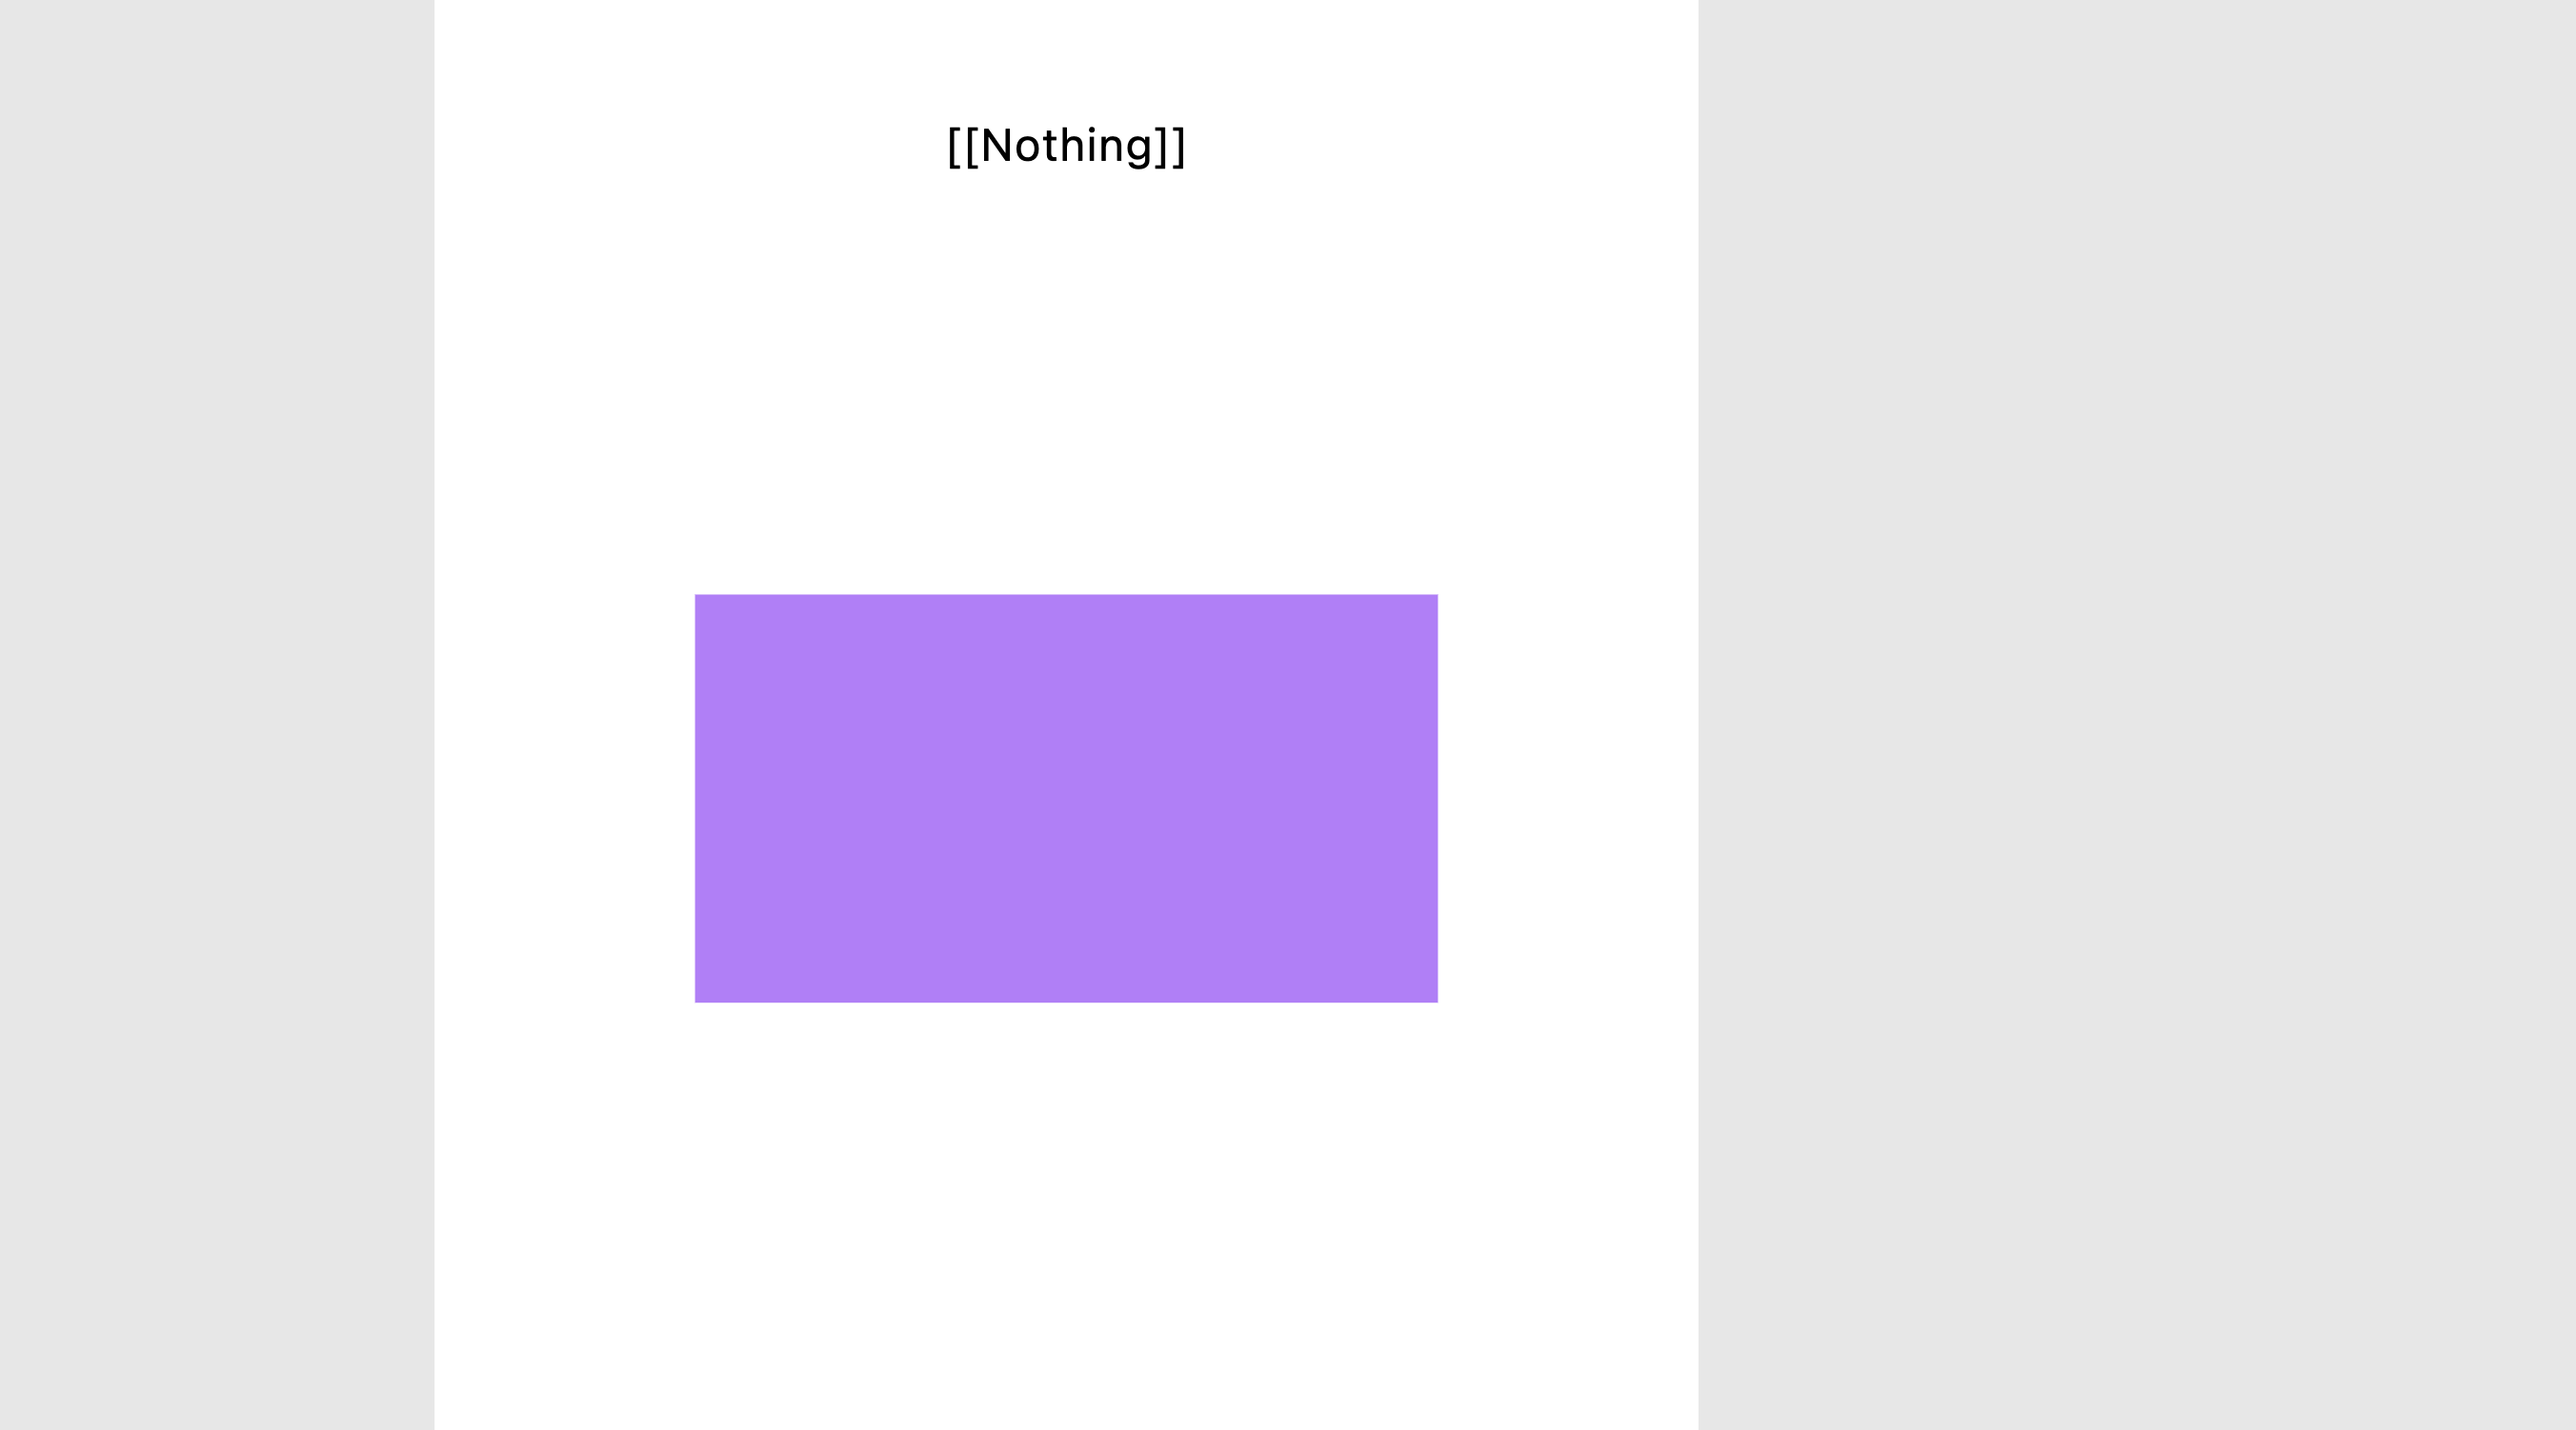
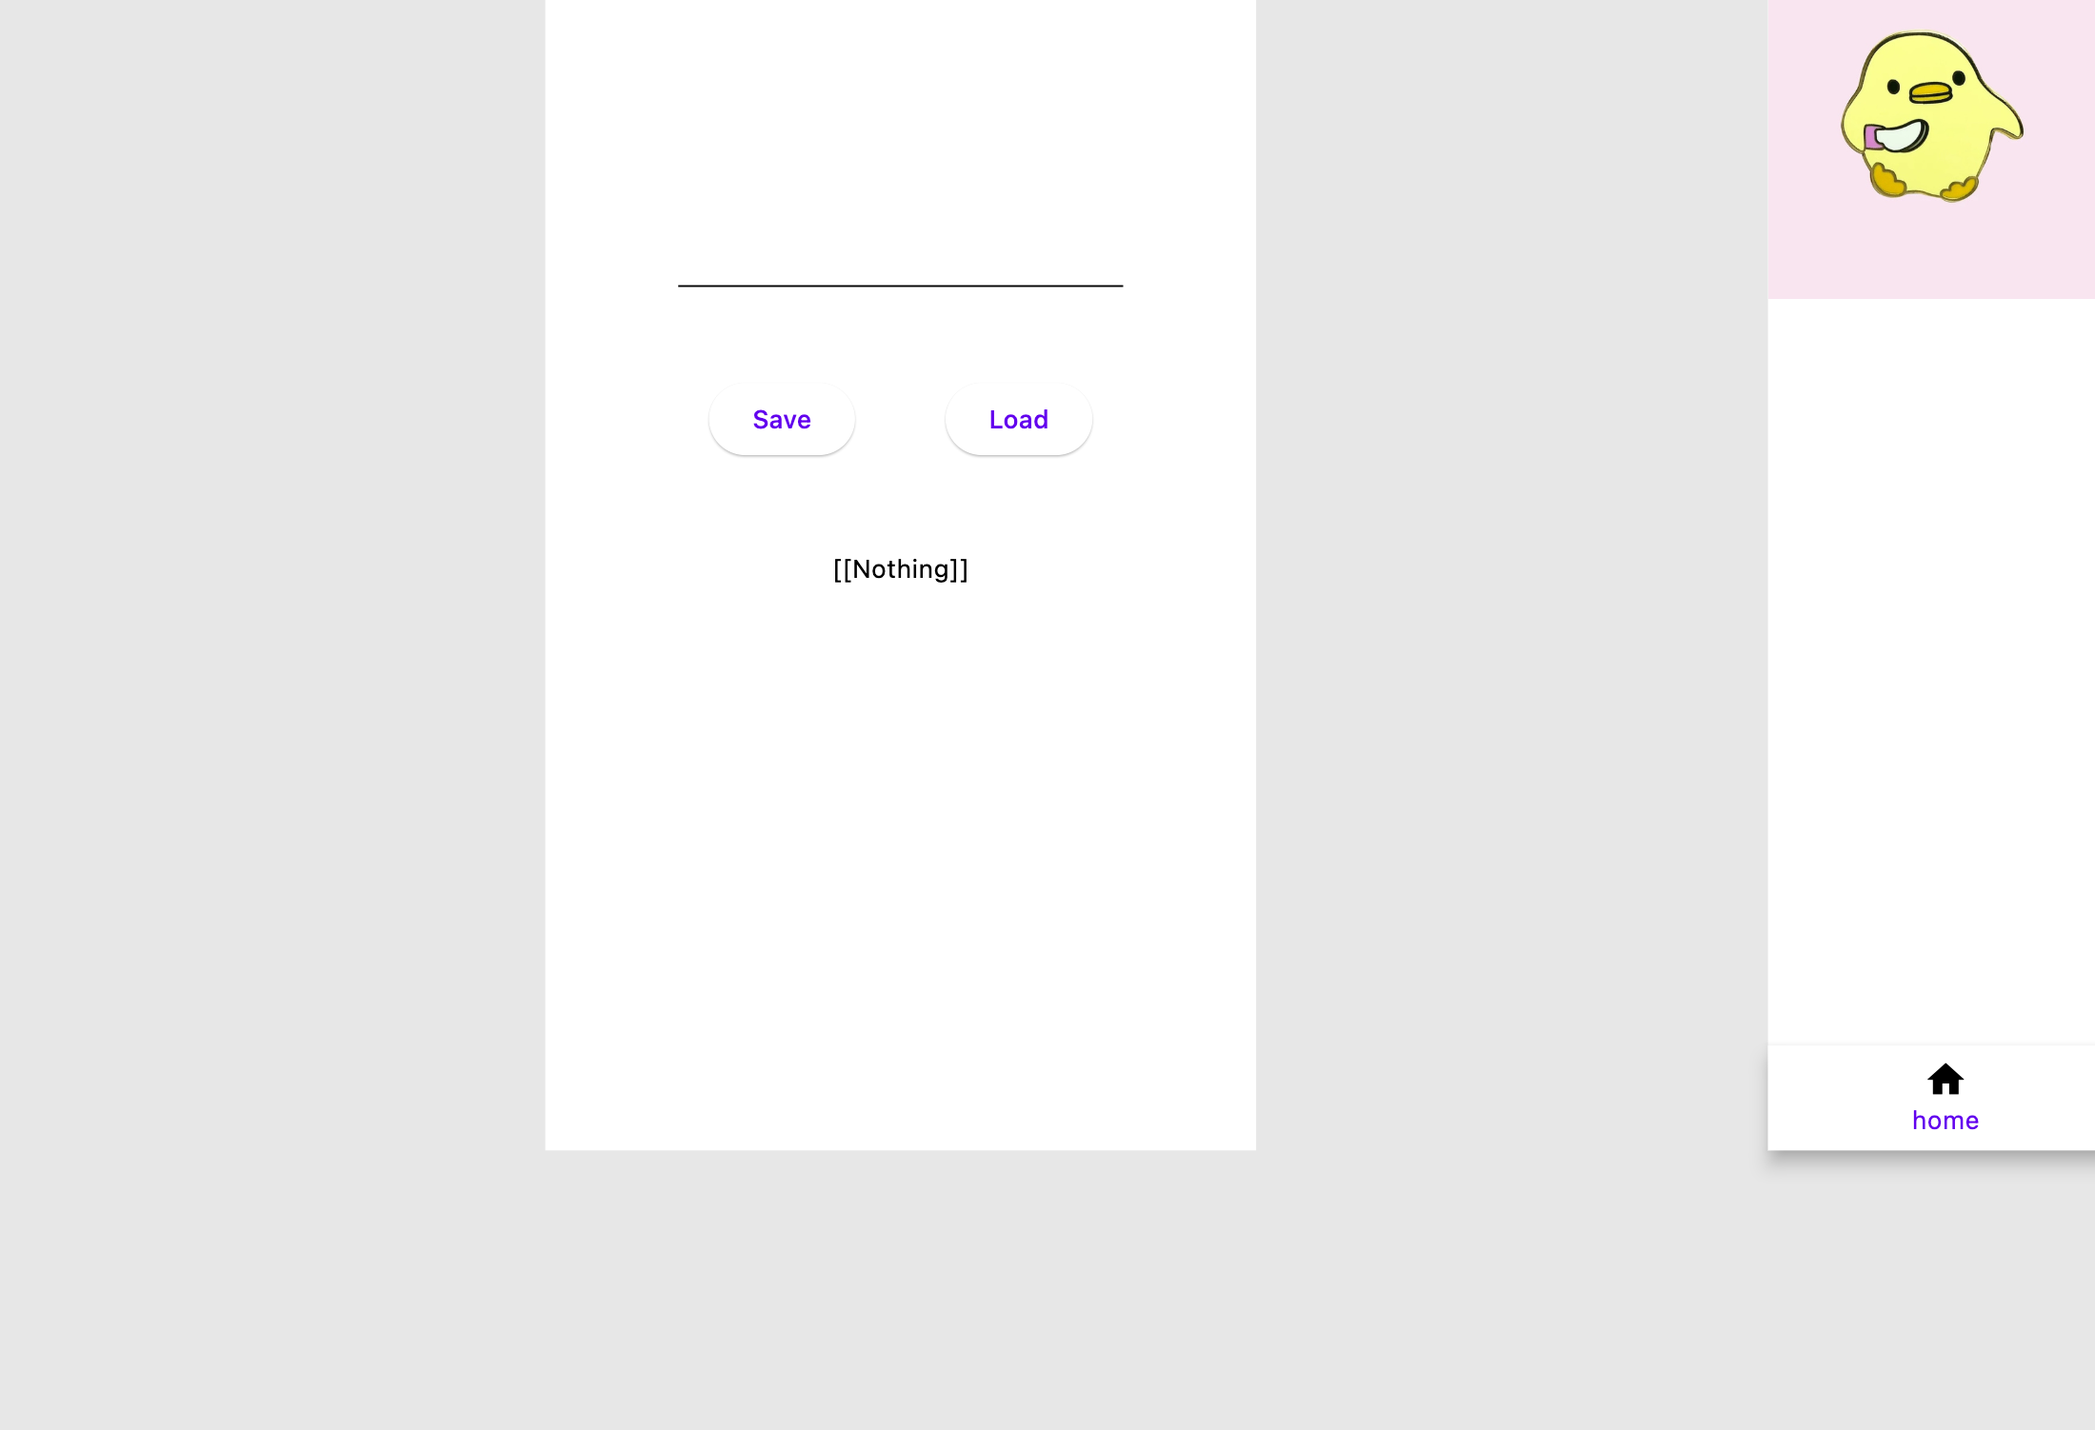
adding navigation

diff --git a/lib/counter.dart b/lib/counter.dart
@@ -1,0 +1,69 @@
+import 'package:flutter/material.dart';
+import 'package:nowa_runtime/nowa_runtime.dart';
+
+@NowaGenerated()
+class Counter extends StatefulWidget {
+  @NowaGenerated({'loader': 'auto-constructor'})
+  const Counter({super.key});
+
+  @override
+  State<Counter> createState() {
+    return _CounterState();
+  }
+}
+
+@NowaGenerated()
+class _CounterState extends State<Counter> {
+  int? counter = 0;
+
+  @override
+  Widget build(BuildContext context) {
+    return Scaffold(
+      body: SafeArea(
+        child: Stack(
+          fit: StackFit.expand,
+          alignment: const Alignment(0.0, 0.0),
+          children: [
+            Positioned(
+              top: 0.0,
+              left: 0.0,
+              right: 0.0,
+              bottom: 0.0,
+              child: NFlex(
+                direction: Axis.vertical,
+                spacing: 8.0,
+                mainAxisSize: MainAxisSize.min,
+                mainAxisAlignment: MainAxisAlignment.center,
+                crossAxisAlignment: CrossAxisAlignment.center,
+                children: [
+                  FlexSizedBox(
+                    width: null,
+                    height: null,
+                    child: Text(
+                      counter!.toString(),
+                      style: const TextStyle(fontSize: 40.0),
+                    ),
+                  ),
+                  FlexSizedBox(
+                    child: Text(
+                      counter! > 10 ? 'Big' : 'Small',
+                    ),
+                  )
+                ],
+              ),
+            )
+          ],
+        ),
+      ),
+      floatingActionButton: FloatingActionButton(
+        onPressed: () {
+          counter = counter! + 1;
+          setState(() {});
+        },
+        child: const Icon(
+          IconData(57415, fontFamily: 'MaterialIcons'),
+        ),
+      ),
+    );
+  }
+}

diff --git a/lib/navigation_sample.dart b/lib/navigation_sample.dart
@@ -1,0 +1,70 @@
+import 'package:flutter/material.dart';
+import 'package:nowa_runtime/nowa_runtime.dart';
+import 'package:nowa_sample/nav_page1.dart';
+import 'package:nowa_sample/nav_page2.dart';
+
+@NowaGenerated()
+class NavigationSample extends StatefulWidget {
+  @NowaGenerated({'loader': 'auto-constructor'})
+  const NavigationSample({super.key});
+
+  @override
+  State<NavigationSample> createState() {
+    return _NavigationSampleState();
+  }
+}
+
+@NowaGenerated()
+class _NavigationSampleState extends State<NavigationSample> {
+  int pageIndex = 0;
+
+  @override
+  Widget build(BuildContext context) {
+    return Scaffold(
+      body: SafeArea(
+        child: Stack(
+          fit: StackFit.expand,
+          alignment: const Alignment(0.0, 0.0),
+          children: [
+            Positioned(
+              top: 0.0,
+              left: 0.0,
+              right: 0.0,
+              bottom: 0.0,
+              child: IndexedStack(
+                index: pageIndex,
+                children: [const NavPage1(), const NavPage2()],
+              ),
+            )
+          ],
+        ),
+      ),
+      bottomNavigationBar: BottomNavigationBar(
+        items: [
+          const BottomNavigationBarItem(
+              icon: Icon(
+                IconData(58136, fontFamily: 'MaterialIcons'),
+                color: Color(0xff000000),
+              ),
+              label: 'home'),
+          const BottomNavigationBarItem(
+              icon: Icon(
+                IconData(57638, fontFamily: 'MaterialIcons'),
+                color: Color(0xff000000),
+              ),
+              label: 'call')
+        ],
+        currentIndex: pageIndex,
+        onTap: (value) {
+          pageIndex = value;
+          setState(() {});
+        },
+      ),
+      appBar: AppBar(
+        title: const Text(
+          'Title',
+        ),
+      ),
+    );
+  }
+}

diff --git a/lib/local_storage.dart b/lib/local_storage.dart
@@ -2,7 +2,7 @@ import 'package:flutter/material.dart';
 import 'package:nowa_runtime/nowa_runtime.dart';
 import 'package:nowa_sample/main.dart';
 
-@NowaGenerated()
+@NowaGenerated({'auto-width': 393.0})
 class LocalStorage extends StatefulWidget {
   @NowaGenerated({'loader': 'auto-constructor'})
   const LocalStorage({super.key});
@@ -28,8 +28,6 @@ class _LocalStorageState extends State<LocalStorage> {
           alignment: const Alignment(0.0, 0.0),
           children: [
             Positioned(
-              top: 161.0,
-              left: 73.5,
               width: 246.0,
               height: 243.0,
               child: NFlex(
@@ -89,26 +87,10 @@ class _LocalStorageState extends State<LocalStorage> {
                   )
                 ],
               ),
-            ),
-            Positioned(
-              top: 505.0,
-              left: 81.0,
-              width: 231.0,
-              height: 127.0,
-              child: Container(
-                decoration: BoxDecoration(
-                    color: Theme.of(context)
-                        .colorScheme
-                        .primary
-                        .withValues(alpha: 0.1),
-                    borderRadius: BorderRadius.circular(0.0)),
-              ),
             )
           ],
         ),
       ),
     );
   }
-
-  void func() {}
 }

diff --git a/lib/message.dart b/lib/message.dart
@@ -1,24 +1,33 @@
 import 'package:nowa_runtime/nowa_runtime.dart';
+import 'dart:convert';
 
 @NowaGenerated()
 class Message {
   @NowaGenerated({'loader': 'auto-constructor'})
-  const Message({this.message = ''});
+  const Message({this.message = '', this.timestamp});
 
   @NowaGenerated({'loader': 'auto-from-json'})
   factory Message.fromJson({required Map<String, dynamic> json}) {
-    return Message(message: json['message'] ?? '');
+    return Message(
+        message: json['message'] ?? '',
+        timestamp: json['timestamp'] != null
+            ? DateTime.tryParse(json['timestamp']!)
+            : null);
   }
 
   final String? message;
 
+  final DateTime? timestamp;
+
   @NowaGenerated({'loader': 'auto-copy-with'})
-  Message copyWith({String? message}) {
-    return Message(message: message ?? this.message);
+  Message copyWith({String? message, DateTime? timestamp}) {
+    return Message(
+        message: message ?? this.message,
+        timestamp: timestamp ?? this.timestamp);
   }
 
   @NowaGenerated({'loader': 'auto-to-json'})
   Map<String, dynamic> toJson() {
-    return {'message': message};
+    return {'message': message, 'timestamp': timestamp?.toIso8601String()};
   }
 }

diff --git a/lib/nav_page1.dart b/lib/nav_page1.dart
@@ -1,0 +1,37 @@
+import 'package:flutter/material.dart';
+import 'package:nowa_runtime/nowa_runtime.dart';
+
+@NowaGenerated({'auto-width': 347.0, 'auto-height': 524.0})
+class NavPage1 extends StatelessWidget {
+  @NowaGenerated({'loader': 'auto-constructor'})
+  const NavPage1({super.key});
+
+  @override
+  Widget build(BuildContext context) {
+    return NFlex(
+      direction: Axis.vertical,
+      spacing: 15.0,
+      mainAxisSize: MainAxisSize.min,
+      mainAxisAlignment: MainAxisAlignment.start,
+      children: [
+        FlexSizedBox(
+          width: null,
+          height: null,
+          child: Text(
+            'Page1',
+            style: Theme.of(context).textTheme.displayLarge,
+          ),
+        ),
+        const FlexSizedBox(
+          width: 181.0,
+          height: 202.0,
+          child: Image(
+            image: NetworkImage(
+                'https://canary.contestimg.wish.com/api/webimage/5ddccb3c9a6f6e1cf8d7dd65-large.jpg?cache_buster=114b2b0b5893a0e736412075646fa5da'),
+            fit: BoxFit.cover,
+          ),
+        )
+      ],
+    );
+  }
+}

diff --git a/lib/nav_page2.dart b/lib/nav_page2.dart
@@ -1,0 +1,37 @@
+import 'package:flutter/material.dart';
+import 'package:nowa_runtime/nowa_runtime.dart';
+
+@NowaGenerated({'auto-width': 347.0, 'auto-height': 524.0})
+class NavPage2 extends StatelessWidget {
+  @NowaGenerated({'loader': 'auto-constructor'})
+  const NavPage2({super.key});
+
+  @override
+  Widget build(BuildContext context) {
+    return NFlex(
+      direction: Axis.vertical,
+      spacing: 32.0,
+      mainAxisSize: MainAxisSize.min,
+      mainAxisAlignment: MainAxisAlignment.start,
+      children: [
+        FlexSizedBox(
+          width: null,
+          height: null,
+          child: Text(
+            'Page2',
+            style: Theme.of(context).textTheme.displayLarge,
+          ),
+        ),
+        FlexSizedBox(
+          width: 153.0,
+          height: 187.0,
+          child: Container(
+            decoration: BoxDecoration(
+                color: Color(0xffc4c4c4),
+                borderRadius: BorderRadius.circular(0.0)),
+          ),
+        )
+      ],
+    );
+  }
+}

diff --git a/lib/main.dart b/lib/main.dart
@@ -4,7 +4,9 @@ import 'package:flutter/material.dart';
 import 'package:provider/provider.dart';
 import 'package:nowa_sample/globals/app_state.dart';
 import 'package:nowa_sample/chat_page.dart';
+import 'package:nowa_sample/counter.dart';
 import 'package:nowa_sample/local_storage.dart';
+import 'package:nowa_sample/navigation_sample.dart';
 import 'package:nowa_sample/pages/home_page.dart';
 
 @NowaGenerated()
@@ -32,7 +34,9 @@ class MyApp extends StatelessWidget {
         initialRoute: 'HomePage',
         routes: {
           'ChatPage': (context) => const ChatPage(),
+          'Counter': (context) => const Counter(),
           'LocalStorage': (context) => const LocalStorage(),
+          'NavigationSample': (context) => const NavigationSample(),
           'HomePage': (context) => const HomePage(),
         },
       ),

diff --git a/lib/chat_page.dart b/lib/chat_page.dart
@@ -20,7 +20,7 @@ class _ChatPageState extends State<ChatPage> {
   List<Message?>? messages = [];
 
   void send() {
-    messages?.add(Message(message: text.text));
+    messages?.add(Message(message: text.text, timestamp: DateTime.now()));
     text.clear();
     setState(() {});
   }
@@ -117,6 +117,12 @@ class _ChatPageState extends State<ChatPage> {
             )
           ],
         ),
+      ),
+      appBar: AppBar(
+        title: const Text(
+          'Title',
+        ),
+        actions: [],
       ),
     );
   }
